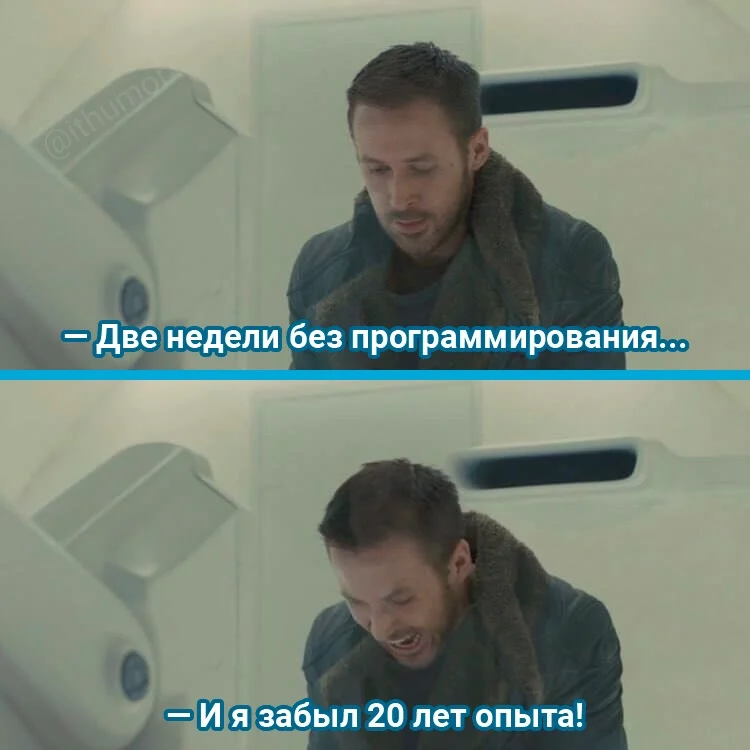
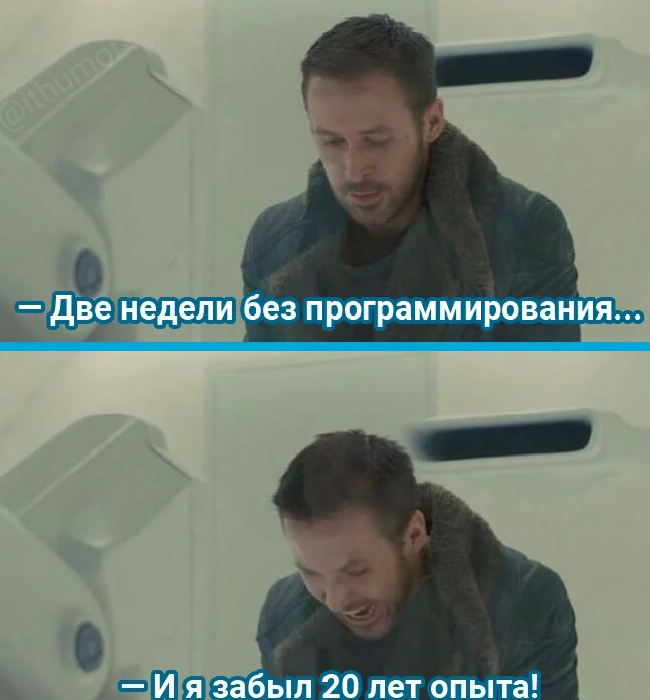
feat: update files HTML and CSS, corrected the photo in folder img (Sun, Sep 17, 2023 02:41:01 PM)

diff --git a/css/style.css b/css/style.css
@@ -1,79 +1,185 @@
 body {
+    background: rgb(5 5 6 / 78%);
+    color: #000000;
     margin: 0;
     padding: 0;
     display: flex;
     justify-content: center;
     align-items: center;
-    min-height: 100vh;
-    background-color: #f0f0f0;
-}
-
-.container {
-    width: 1000px;
-    height: 600px;
-    background-color: antiquewhite;
+    box-sizing: border-box;
 }
 
 .slider {
-    position: relative;
+    font-family: 'Roboto', sans-serif;
+    font-size: 1.5rem;
+    background-color: #bbb46d;
+    width: 49rem;
+    height: 43rem;
+    padding: 1.5rem;
+    display: flex;
+    flex-direction: column;
+    gap: 1rem;
+    margin-top: 2rem;
+    border-radius: 0.5rem;
     overflow: hidden;
 }
 
-.description-meme1 {
+.slides {
+    width: 500%;
     display: flex;
+    transition: 0.5s;
 }
 
-.slides {
-    display: flex;
-    width: 500%;
+.slider input {
+    display: none;
 }
 
 .slide {
-    flex: 1;
-    display: flex;
-    justify-content: center;
-    align-items: center;
-    font-size: 24px;
-    background-color: antiquewhite;
-    color: white;
-    transition: transform 0.5s ease-in-out;
+    width: 100%;
+    scroll-snap-align: start;
+    transition: 0.5s;
 }
 
-.type-radio {
-    color: #2980b9;
-}
-
-.slider-nav {
-    bottom: 10px;
-    width: 15px;
-    height: 15px;
-    background-color: #3498db;
-    border-radius: 50%;
-    cursor: pointer;
-    opacity: 0.7;
-    transition: background-color 0.3s ease;
-}
-
-.slider-nav:hover {
-    background-color: #2980b9;
+.slide img {
+    height: 38rem;
+    width: 100%;
+    object-fit: contain;
 }
 
 #slide1:checked ~ .slides {
-    transform: translateX(0);
+    transform:translateX(0);
 }
 
 #slide2:checked ~ .slides {
-    transform: translateX(-20%);
+    transform:translateX(-20%);
 }
 
 #slide3:checked ~ .slides {
-    transform: translateX(-40%);
+    transform:translateX(-40%);
 }
 
 #slide4:checked ~ .slides {
-    transform: translateX(-60%);
+    transform:translateX(-60%);
 }
 
 #slide5:checked ~ .slides {
-    transform: translateX(-80%);
+    transform:translateX(-80%);
+}
+
+.text-button-conteiner {
+    display: flex;
+    justify-content: space-around;
+    margin: 0 3rem;
+}
+
+.text1,
+.text2,
+.text3,
+.text4,
+.text5 {
+    height: 0;
+    opacity: 0;
+    visibility: hidden;
+    transition: opacity 1s;
+}
+
+.label {
+    display: flex;
+    align-items: center;
+    justify-content: center;
+    height: 2rem;
+    width: 2.5rem;
+}
+
+.label:hover {
+    cursor: pointer;
+}
+
+.slider-button {
+    display: flex;
+    gap: 0.5rem;
+}
+
+.slider-button div {
+    width: 0.4rem;
+    height: 0.4rem;
+    border: 0.2rem solid #000000;
+    background: #000000;
+    padding: 0.33rem;
+    border-radius: 50%;
+    transition: 1s;
+}
+
+.label:hover .slider-hover {
+    cursor: pointer;
+    background-color: #bbb46d;
+    border: 0.2rem solid #000000;
+}
+
+.label:active .slider-hover {
+    background-color: #bbb46d;
+    border: 0.2rem solid #000000;
+}
+
+#slide1:checked ~ .text-button-conteiner .slider-btn1 {
+    background: #e5ff00;
+    border: 0.2rem solid #000000;
+}
+
+#slide2:checked ~ .text-button-conteiner .slider-btn2 {
+    background: #e5ff00;
+    border: 0.2rem solid #000000;
+}
+
+#slide3:checked ~ .text-button-conteiner .slider-btn3 {
+    background: #e5ff00;
+    border: 0.2rem solid #000000;
+}
+
+#slide4:checked ~ .text-button-conteiner .slider-btn4 {
+    background: #e5ff00;
+    border: 0.2rem solid #000000;
+}
+
+#slide5:checked ~ .text-button-conteiner .slider-btn5 {
+    background: #e5ff00;
+    border: 0.2rem solid #000000;
+}
+
+#slide1:checked ~ .text-button-conteiner .slider-btn1:hover,
+#slide2:checked ~ .text-button-conteiner .slider-btn2:hover,
+#slide3:checked ~ .text-button-conteiner .slider-btn3:hover,
+#slide4:checked ~ .text-button-conteiner .slider-btn4:hover,
+#slide5:checked ~ .text-button-conteiner .slider-btn5:hover {
+    border: 0.2rem solid #5c5c5c;
+}
+
+#slide1:checked ~ .text-button-conteiner .text1 {
+    height: auto;
+    opacity: 1;
+    visibility: visible;
+}
+
+#slide2:checked ~ .text-button-conteiner .text2 {
+    height: auto;
+    opacity: 1;
+    visibility: visible;
+}
+
+#slide3:checked ~ .text-button-conteiner .text3 {
+    height: auto;
+    opacity: 1;
+    visibility: visible;
+}
+
+#slide4:checked ~ .text-button-conteiner .text4 {
+    height: auto;
+    opacity: 1;
+    visibility: visible;
+}
+
+#slide5:checked ~ .text-button-conteiner .text5 {
+    height: auto;
+    opacity: 1;
+    visibility: visible;
 }

diff --git a/index.html b/index.html
@@ -11,35 +11,38 @@
     <title>MemeSlider</title>
 </head>
 <body>
-    <div class="container">
-        <div class="slider">
-            <div class="slides">
-                <div class="slide" id="slide1">
-                    <img src="img/meme_1.png" alt="Meme 1" width="800" height="500">
-                </div>
-                <div class="slide" id="slide2"><img src="img/meme_2.png" alt="Meme 2" width="800" height="500"></div>
-                <div class="slide" id="slide3"><img src="img/meme_3.png" alt="Meme 3" width="800" height="500"></div>
-                <div class="slide" id="slide4"><img src="img/meme_4.png" alt="Meme 4" width="800" height="500"></div>
-                <div class="slide" id="slide5"><img src="img/meme_5.png" alt="Meme 5" width="800" height="500"></div>
+    <div class="slider">
+        <input type="radio" name="radio-button" id="slide1" checked>
+        <input type="radio" name="radio-button" id="slide2">
+        <input type="radio" name="radio-button" id="slide3">
+        <input type="radio" name="radio-button" id="slide4">
+        <input type="radio" name="radio-button" id="slide5">
+
+        <div class="slides">
+            <div class="slide"><img src="img/meme_1.png" alt="Meme 1"></div>
+            <div class="slide"><img src="img/meme_2.png" alt="Meme 2"></div>
+            <div class="slide"><img src="img/meme_3.png" alt="Meme 3"></div>
+            <div class="slide"><img src="img/meme_4.png" alt="Meme 4"></div>
+            <div class="slide"><img src="img/meme_5.png" alt="Meme 5"></div>
+        </div>
+
+        <div class="text-button-conteiner">
+            <div class="slider-text">
+                <div class="text1">Мемы создают</div>
+                <div class="text2">Веселый мир</div>
+                <div class="text3">Программирования </div>
+                <div class="text4">c JS, HTML и CSS</div>
+                <div class="text5">Мемчики для тебя^^</div>
+        </div>
+            <div class="slider-button">
+                <label for="slide1" class="label"><div class="slider-btn1 slider-hover"></div></label>
+                <label for="slide2" class="label"><div class="slider-btn2 slider-hover"></div></label>
+                <label for="slide3" class="label"><div class="slider-btn3 slider-hover"></div></label>
+                <label for="slide4" class="label"><div class="slider-btn4 slider-hover"></div></label>
+                <label for="slide5" class="label"><div class="slider-btn5 slider-hover"></div></label>
             </div>
         </div>
-        <div class="slides-btn">
-            <label for="slide1" class="slider-nav">
-                <input class="type-radio1" type="radio" name="slider" id="slide1" checked>
-            </label>
-            <label for="slide2" class="slider-nav">
-                <input class="type-radio" type="radio" name="slider" id="slide2">
-            </label>
-            <label for="slide3" class="slider-nav">
-                <input class="type-radio" type="radio" name="slider" id="slide3">
-            </label>
-            <label for="slide4" class="slider-nav">
-                <input class="type-radio" type="radio" name="slider" id="slide4">
-            </label>
-            <label for="slide5" class="slider-nav">
-                <input class="type-radio" type="radio" name="slider" id="slide5">
-            </label>
-        </div>
+
     </div>
 </body>
 </html>
